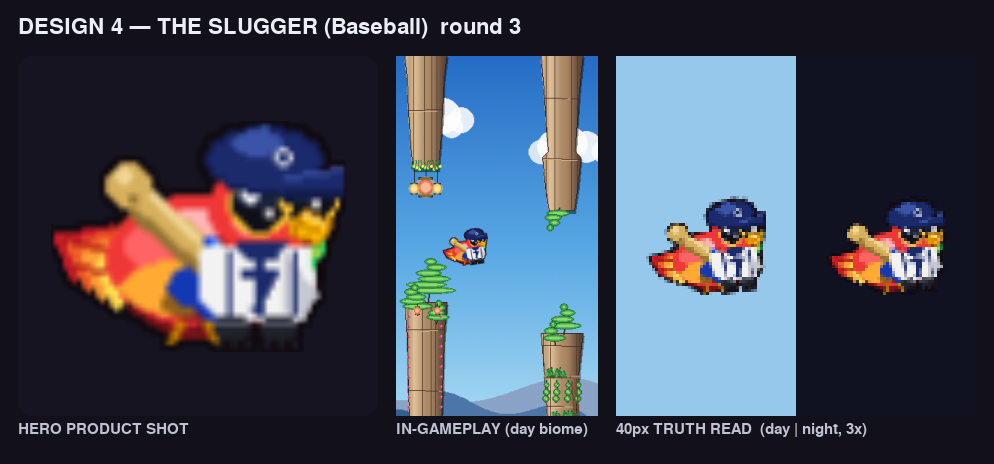
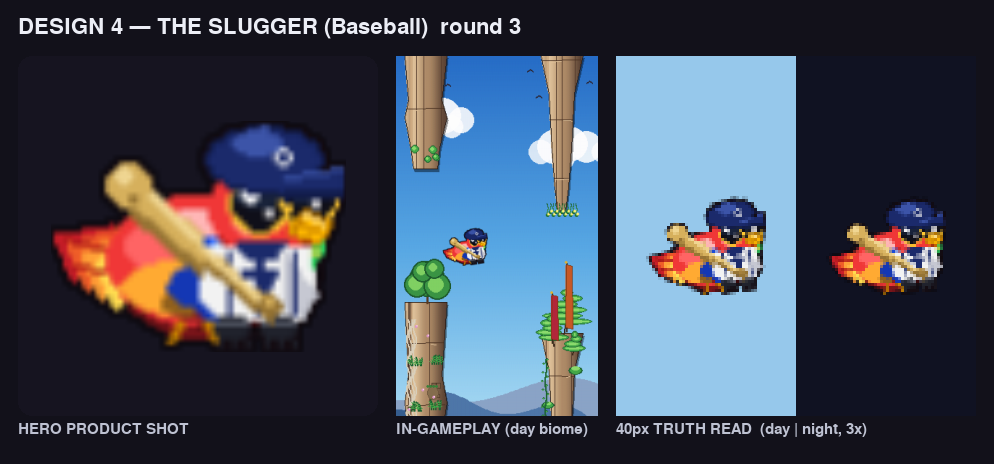
Baseball (Slugger): draw the bat LAST so it overlays the jersey/clothing

diff --git a/tools/sports_candidates/design_4.py b/tools/sports_candidates/design_4.py
@@ -51,42 +51,6 @@ _BSB_CLEAT_H = (96, 100, 114)      # cleat rim glint
 
 
 def _paint(surf, _a):
-    # ── WOODEN BAT slung diagonally BEHIND the body (painted FIRST so the torso
-    #    covers the mid-shaft; the fat BARREL overshoots PAST the back/tail
-    #    outline into OPEN SKY — same slung-prop trick as the pirate cutlass, and
-    #    the lower-left tail zone is now clear (no mitt) so the barrel reads as
-    #    one clean tan diagonal, not a brown blob). Handle/knob cross the body at
-    #    the near wing; the barrel is pushed well outside the silhouette.
-    handle = (HX + 1, HY + 21)        # thin grip end, crossing the near wing
-    barrel = (HX - 29, HY - 5)        # fat barrel end, OUT past the back outline
-    # Taper: draw the shaft in two segments so the handle is thin and the barrel
-    # is fat — a constant-width line reads as a pipe, not a bat. The barrel is
-    # fattened a touch (7px core) so the tan cylinder survives the downscale.
-    mid = ((handle[0] + barrel[0]) // 2, (handle[1] + barrel[1]) // 2)
-    # Underside shadow drawn FIRST and only as a thin sliver under the body, so
-    # the bright barrel keeps most of the cylinder's width (a fat shadow under a
-    # thin body is what turned the bat into a dark smear at night).
-    pygame.draw.line(surf, _BSB_BAT_D, (handle[0], handle[1] + 1),
-                     (mid[0], mid[1] + 1), 4)
-    pygame.draw.line(surf, _BSB_BAT_D, (mid[0], mid[1] + 2),
-                     (barrel[0], barrel[1] + 2), 9)
-    # Bright barrel body on top of the shadow — taper handle (3px) → barrel (7px).
-    pygame.draw.line(surf, _BSB_BAT, handle, mid, 3)            # thin handle
-    pygame.draw.line(surf, _BSB_BAT, mid, barrel, 7)           # fat barrel
-    # Wide bright top glint running the full barrel (3px) so the round tan
-    # cylinder survives at 40px and separates against the dark NIGHT sky.
-    pygame.draw.line(surf, _BSB_BAT_H, (mid[0] - 1, mid[1] - 2),
-                     (barrel[0] + 1, barrel[1] - 2), 3)
-    pygame.draw.line(surf, _BSB_BAT_H, (handle[0] - 1, handle[1] - 1),
-                     (mid[0], mid[1] - 1), 2)
-    # Rounded barrel cap so the fat end reads as the bat's tip, not a cut bar.
-    pygame.draw.circle(surf, _BSB_BAT, barrel, 5)
-    pygame.draw.circle(surf, _BSB_BAT_H, (barrel[0] - 1, barrel[1] - 2), 2)
-    pygame.draw.circle(surf, _BSB_BAT_D, (barrel[0] + 1, barrel[1] + 3), 1)
-    # Knob at the handle end — the little flare that says "this is the grip".
-    pygame.draw.circle(surf, _BSB_KNOB, handle, 3)
-    pygame.draw.circle(surf, _BSB_BAT, (handle[0], handle[1] - 1), 1)
-
     # ── PINSTRIPE JERSEY over the torso (white field hugging the body, held
     #    INSIDE the base bird footprint — bottom ~HY+23 — so nothing balloons the
     #    silhouette). White is the brightest mass so the kit reads at hero scale;
@@ -143,6 +107,35 @@ def _paint(surf, _a):
     # A small white "team mark" on the cap front so it's not a blank navy dome.
     pygame.draw.circle(surf, _BSB_WHITE, (HX + 4, cy + 2), 2)
     pygame.draw.circle(surf, _BSB_NAVY, (HX + 4, cy + 2), 1)
+
+    # ── WOODEN BAT — drawn LAST so it OVERLAYS the jersey/clothing: the bat rests
+    #    diagonally ACROSS the uniform, fully visible in front, rather than slung
+    #    behind the torso. Handle/knob at the near wing over the jersey; the fat
+    #    barrel runs up past the back/tail outline into open sky as one clean tan
+    #    diagonal. Three values keep the tapered cylinder reading as a bat at 40px.
+    handle = (HX + 1, HY + 21)        # grip end over the near wing / jersey
+    barrel = (HX - 29, HY - 5)        # fat barrel end, out past the back outline
+    mid = ((handle[0] + barrel[0]) // 2, (handle[1] + barrel[1]) // 2)
+    # Underside shadow kept a thin sliver so the bright barrel holds the cylinder.
+    pygame.draw.line(surf, _BSB_BAT_D, (handle[0], handle[1] + 1),
+                     (mid[0], mid[1] + 1), 4)
+    pygame.draw.line(surf, _BSB_BAT_D, (mid[0], mid[1] + 2),
+                     (barrel[0], barrel[1] + 2), 9)
+    # Bright barrel body — taper handle (3px) → barrel (7px).
+    pygame.draw.line(surf, _BSB_BAT, handle, mid, 3)
+    pygame.draw.line(surf, _BSB_BAT, mid, barrel, 7)
+    # Wide bright top glint so the round tan cylinder survives at 40px day + night.
+    pygame.draw.line(surf, _BSB_BAT_H, (mid[0] - 1, mid[1] - 2),
+                     (barrel[0] + 1, barrel[1] - 2), 3)
+    pygame.draw.line(surf, _BSB_BAT_H, (handle[0] - 1, handle[1] - 1),
+                     (mid[0], mid[1] - 1), 2)
+    # Rounded barrel cap so the fat end reads as the bat's tip.
+    pygame.draw.circle(surf, _BSB_BAT, barrel, 5)
+    pygame.draw.circle(surf, _BSB_BAT_H, (barrel[0] - 1, barrel[1] - 2), 2)
+    pygame.draw.circle(surf, _BSB_BAT_D, (barrel[0] + 1, barrel[1] + 3), 1)
+    # Knob at the handle end — the grip flare.
+    pygame.draw.circle(surf, _BSB_KNOB, handle, 3)
+    pygame.draw.circle(surf, _BSB_BAT, (handle[0], handle[1] - 1), 1)
 
 
 build = store_skins._make_skin(_paint)
